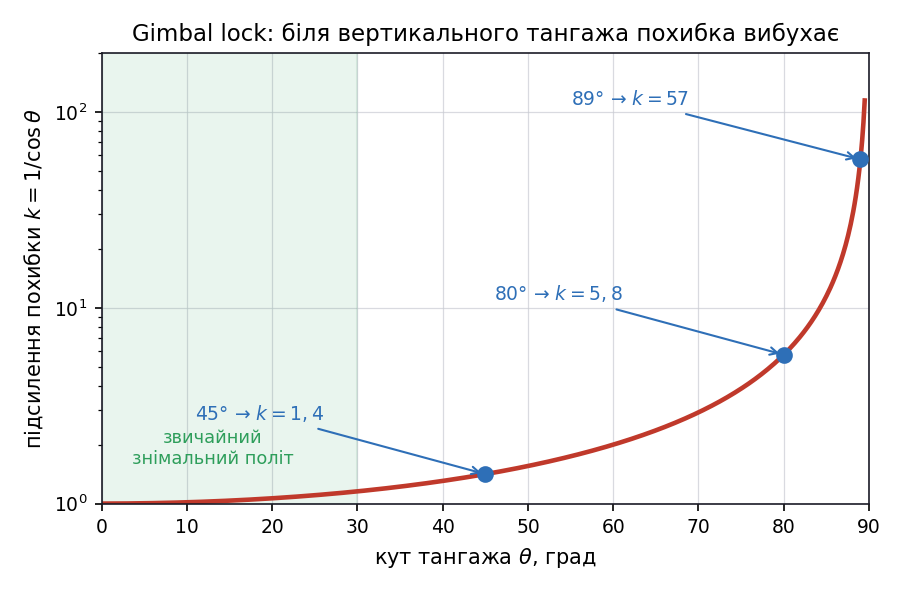
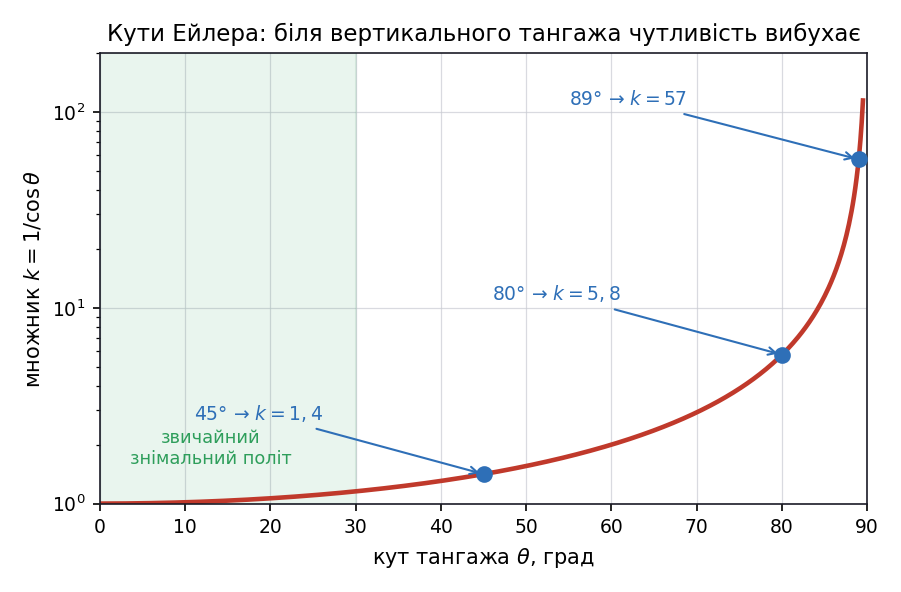
Модуль 02: частоти каскаду перенесено в частину 2, рисунок gimbal lock, правки аудиту
Claude-Session: https://claude.ai/code/session_01YKiEQ7DEaMDvjfRaea471B

diff --git a/lectures/02.md b/lectures/02.md
@@ -21,7 +21,7 @@ outline: [2, 3]
 | **Частина** | **Про що** | **Питання, на яке відповідає** |
 |---|---|---|
 | 1. Апарат у просторі | системи координат, розклад тяги, три представлення орієнтації | як задати положення корпусу і чим апарат керує |
-| 2. Керування й оцінювання | рівновага, ПІД по складових, числення шляху, фільтр Калмана | звідки взяти стан і як утримати апарат у рівновазі |
+| 2. Керування й оцінювання | рівновага, ПІД по складових, частоти контурів каскаду, числення шляху, фільтр Калмана | звідки взяти стан і як утримати апарат у рівновазі |
 | 3. Граф рою | матриці $A$ і $D$, лапласіан, $\lambda_2$, консенсус | як описати не апарати, а зв'язки між ними |
 
 Перші дві частини стосуються одного апарата, третя — уже рою. Модуль 03 застосує цю базу до законів керування групою.
@@ -34,11 +34,11 @@ outline: [2, 3]
 - назвати три представлення орієнтації та сказати, яке з них використовують у автопілоті й чому;
 - пояснити, що робить кожен доданок ПІД-регулятора, звідки береться стала похибка й чим вона лікується;
 - зняти з графіка три показники якості регулятора й перевести задану тягу в оберти гвинтів;
+- пояснити, навіщо контури керування працюють на різних частотах;
 - пояснити, навіщо потрібне числення шляху і чому його похибка зростає;
 - пояснити, як фільтр Калмана поєднує прогноз і вимірювання і що означає його підсилення;
 - побудувати матриці $A$, $D$ і лапласіан невеликого графа та обчислити рядок добутку $Lx$;
-- пояснити правило протоколу консенсусу й сказати, як топологія впливає на час узгодження;
-- пояснити, навіщо контури керування працюють на різних частотах.
+- пояснити правило протоколу консенсусу й сказати, як топологія впливає на час узгодження.
 
 ## Частина 1 · Апарат у просторі
 
@@ -178,13 +178,23 @@ Quaternion example for yaw rotations of a quadrotor
 
 У самому цьому положенні розклад **перестає бути однозначним** — тих самих трьох чисел можна дібрати нескінченно багато, — а поблизу нього він стає дедалі чутливішим: крихітна похибка гіроскопа дає стрибок кута на десятки градусів. Для знімального польоту це не проблема — там тангаж рідко виходить за 30°. Для акробатики чи різкого маневру — проблема щоразу.
 
+
+<Figure src="/figs/own/m02-gimbal-lock.png" alt="Підсилення похибки поблизу карданного замка">
+
+Підсилення похибки поблизу карданного замка
+
+</Figure>
+
+
+Множник $1/\cos\theta$ входить у перерахунок кутових швидкостей корпусу у швидкості зміни кутів Ейлера — і показує, як росте чутливість поблизу особливого положення: при тангажі 45° він дорівнює 1,4, при 80° — 5,8, при 89° — 57.
+
 Тому в автопілоті працює розподіл ролей: **рахують кватерніоном, перетворюють матрицею, показують оператору кути.**
 
 **Це знадобиться в Модулі 06:** у вектор спостереження навченої політики подають матрицю повороту, а не кути. Причина інша, ніж *gimbal lock*: кут стрибає з $+180°$ на $-180°$ при плавному повороті, і мережі важко вчитися на вході з таким розривом.
 
 ## Частина 2 · Керування й оцінювання стану
 
-Від опису апарата переходимо до двох питань практики: що втримує його в повітрі і звідки береться стан, яким керують.
+Від опису апарата переходимо до двох питань практики: що втримує його в повітрі і звідки береться стан, яким керують. Дорогою з'ясується, що регулятор насправді не один.
 
 
 <Figure src="/figs/own/m02-stability.png" alt="Стійка і нестійка рівновага на прикладі кульки">
@@ -308,6 +318,54 @@ $$T = 4\,k_F\,n^2 \quad\Longrightarrow\quad n = \sqrt{\frac{T}{4k_F}}, \qquad u 
 Crazyflie 2.1 із лабораторних: у висінні мотори видають близько 44 % максимуму, тобто повна тяга більша за вагу у 2,25 раза. Решта — це все, що є на розгін, набір висоти й боротьбу з вітром одночасно.
 
 Що з цього випливає: запас витрачається не лише на маневр. Частина його потрібна, щоб апарат лишався керованим після відмови гвинта, — і там уже важить не сама тяга, а те, як гвинти розставлені. Числа за геометріями й розбір відмов — у Модулі 11.
+
+### Чому контури працюють на різних частотах
+
+Досі ми говорили про регулятор так, ніби він один. Насправді їх кілька, і саме звідси беруться 50 Гц у лабораторній.
+
+Керування мультикоптером — це не одна програма, а **каскад** вкладених контурів, і кожен крутиться зі своєю частотою. Ось що відбувається, поки політика видає **одну** дію:
+
+
+<Figure src="/figs/own/m02-cascade-rates.png" alt="Cascade control rates over one policy step">
+
+Cascade control rates over one policy step
+
+</Figure>
+
+
+За ті 20 мілісекунд, що минають між двома рішеннями політики, внутрішній контур встигає відпрацювати **десять** тактів, а симулятор — прорахувати **двадцять** кроків фізики. (20 мс — це період видачі дій, а не час обчислення: сама мережа рахується значно швидше.)
+
+**Три контури керування**, від зовнішнього до внутрішнього:
+
+| **Контур** | **Частота в цьому прикладі** | **Що він видає** |
+|---|---|---|
+| Зовнішній: позиція та швидкість (тут — політика) | 50 Гц | завдання для контуру кутів |
+| Середній: кути крену й тангажа | 250 Гц | потрібну швидкість обертання |
+| Внутрішній: кутові швидкості | 500 Гц | команди на мотори через розподіл керування |
+
+Окремо від них стоїть **крок симулятора, 1000 Гц** — це не контур керування, а чисельне інтегрування рівнянь руху.
+
+**Правило, яке пов'язує сусідні контури:** внутрішній має бути помітно швидшим за зовнішній — на практиці в кілька разів, часто беруть орієнтир близько п'яти. Сенс не в самому числі, а у вимозі: нижній контур мусить встигнути відпрацювати завдання, перш ніж верхній видасть наступне. **Якщо правило порушити**, верхній контур бачить невиконане завдання, просить сильніше, нижній не встигає — і замість керування виходить розгойдування. Саме тому в ряду 50 → 250 → 500 Гц відношення й не однакові: важить не коефіцієнт, а запас за швидкодією.
+
+**Який саме інтерфейс у політики — залежить від задачі.** У ЛР 2 вона видає одне число, нормовану тягу, а кути тримає бортовий регулятор. У Модулі 06 інтерфейс ширший — тяга й кутові швидкості. Показані тут 50/250/500 Гц — це числа конкретного прикладу, а не стандарт: у різних автопілотах вони різні.
+
+### Частоти: три приклади
+
+**Приклад 1: рідкісні вимірювання й частий прогноз.** GPS оновлює позицію десять разів на секунду, а керувати треба частіше. Виходу два, і працюють вони разом: між вимірюваннями оцінювач **прогнозує** позицію за показами IMU (це рівно той фільтр, яким займемося за кілька карток), а рідкісні вимірювання GPS цей прогноз **коригують**. Тому позиційний контур може працювати швидше за GPS — але свіжої зовнішньої інформації в нього все одно стільки, скільки дає GPS.
+
+**Приклад 2: що саме ламається при порушенні правила.** Політика попросила «нахилися на 12°». Нижній контур, припустімо, устигає дійти лише до 6° — і тут приходить наступне рішення. Політика бачить, що завдання не виконане, і просить нахил іще більший; нижній знову не встигає. Обидва контури починають змагатися, і замість плавного виходу на 12° апарат розгойдується. Те саме явище, але для зв'язку **між апаратами**, розбиратимемо в Модулі 03 — там його спричиняє затримка в радіоканалі.
+
+**Приклад 3: із чого починати, коли апарат погано летить.** Частота коливання звужує коло підозрюваних, хоч і не називає винного одразу:
+
+| **Що бачите** | **Частота** | **Що перевірити першим** |
+|---|---|---|
+| Дрібне тремтіння, «дзижчить» | десятки герц | шум гіроскопа, завеликий $k_d$, фільтр у внутрішньому контурі |
+| Плавне гойдання, період близько секунди | одиниці герц | коефіцієнти зовнішнього контуру, затримка в каналі |
+| Повільне «плавання» навколо точки | частки герца | інтегральна складова, якість оцінювача позиції |
+
+Одну й ту саму частоту можуть давати різні причини — регулятор, затримка, фільтр, механіка, насичення тяги. Таблиця каже, **де шукати**, а не хто винен.
+
+**Про крок симуляції.** 1000 Гц у симуляторі — це не рівень каскаду, а чисельне інтегрування рівнянь руху. Крок обирають за динамікою задачі й перевіряють просто: зменшують удвічі й дивляться, чи змінився результат. Якщо змінився — крок був завеликий.
 
 ### Числення шляху: навігація без жодного орієнтира
 
@@ -615,54 +673,6 @@ for name, E in topo.items():
 
 <ConsensusLab />
 
-### Додаткова тема: чому контури працюють на різних частотах
-
-Тема не обов'язкова для заліку, але без неї важко читати будь-який автопілот — і важко зрозуміти, звідки в лабораторних узялися саме 50 Гц.
-
-Керування мультикоптером — це не одна програма, а **каскад** вкладених контурів, і кожен крутиться зі своєю частотою. Ось що відбувається, поки політика видає **одну** дію:
-
-
-<Figure src="/figs/own/m02-cascade-rates.png" alt="Cascade control rates over one policy step">
-
-Cascade control rates over one policy step
-
-</Figure>
-
-
-За ті 20 мілісекунд, що минають між двома рішеннями політики, внутрішній контур встигає відпрацювати **десять** тактів, а симулятор — прорахувати **двадцять** кроків фізики. (20 мс — це період видачі дій, а не час обчислення: сама мережа рахується значно швидше.)
-
-**Три контури керування**, від зовнішнього до внутрішнього:
-
-| **Контур** | **Частота в цьому прикладі** | **Що він видає** |
-|---|---|---|
-| Зовнішній: позиція та швидкість (тут — політика) | 50 Гц | завдання для контуру кутів |
-| Середній: кути крену й тангажа | 250 Гц | потрібну швидкість обертання |
-| Внутрішній: кутові швидкості | 500 Гц | команди на мотори через розподіл керування |
-
-Окремо від них стоїть **крок симулятора, 1000 Гц** — це не контур керування, а чисельне інтегрування рівнянь руху.
-
-**Правило, яке пов'язує сусідні контури:** внутрішній має бути помітно швидшим за зовнішній — на практиці в кілька разів, часто беруть орієнтир близько п'яти. Сенс не в самому числі, а у вимозі: нижній контур мусить встигнути відпрацювати завдання, перш ніж верхній видасть наступне. **Якщо правило порушити**, верхній контур бачить невиконане завдання, просить сильніше, нижній не встигає — і замість керування виходить розгойдування. Саме тому в ряду 50 → 250 → 500 Гц відношення й не однакові: важить не коефіцієнт, а запас за швидкодією.
-
-**Який саме інтерфейс у політики — залежить від задачі.** У ЛР 2 вона видає одне число, нормовану тягу, а кути тримає бортовий регулятор. У Модулі 06 інтерфейс ширший — тяга й кутові швидкості. Показані тут 50/250/500 Гц — це числа конкретного прикладу, а не стандарт: у різних автопілотах вони різні.
-
-### Частоти: три приклади
-
-**Приклад 1: рідкісні вимірювання й частий прогноз.** GPS оновлює позицію десять разів на секунду, а керувати треба частіше. Виходу два, і працюють вони разом: між вимірюваннями оцінювач **прогнозує** позицію за показами IMU (це рівно той фільтр із частини 2), а рідкісні вимірювання GPS цей прогноз **коригують**. Тому позиційний контур може працювати швидше за GPS — але свіжої зовнішньої інформації в нього все одно стільки, скільки дає GPS.
-
-**Приклад 2: що саме ламається при порушенні правила.** Політика попросила «нахилися на 12°». Нижній контур устигає дійти лише до 6° — і тут приходить наступне рішення. Політика бачить, що завдання не виконане, і просить нахил іще більший; нижній знову не встигає. Обидва контури починають змагатися, і замість плавного виходу на 12° апарат розгойдується. Те саме явище, але для зв'язку **між апаратами**, розбиратимемо в Модулі 03 — там його спричиняє затримка в радіоканалі.
-
-**Приклад 3: із чого починати, коли апарат погано летить.** Частота коливання звужує коло підозрюваних, хоч і не називає винного одразу:
-
-| **Що бачите** | **Частота** | **Що перевірити першим** |
-|---|---|---|
-| Дрібне тремтіння, «дзижчить» | десятки герц | шум гіроскопа, завеликий $k_d$, фільтр у внутрішньому контурі |
-| Плавне гойдання, період близько секунди | одиниці герц | коефіцієнти зовнішнього контуру, затримка в каналі |
-| Повільне «плавання» навколо точки | частки герца | інтегральна складова, якість оцінювача позиції |
-
-Одну й ту саму частоту можуть давати різні причини — регулятор, затримка, фільтр, механіка, насичення тяги. Таблиця каже, **де шукати**, а не хто винен.
-
-**Про крок симуляції.** 1000 Гц у симуляторі — це не рівень каскаду, а чисельне інтегрування рівнянь руху. Крок обирають за динамікою задачі й перевіряють просто: зменшують удвічі й дивляться, чи змінився результат. Якщо змінився — крок був завеликий.
-
 ### Типові непорозуміння
 
 П'ять тверджень, які звучать переконливо й усі хибні. Якщо ви ловите себе на будь-якому з них — поверніться до відповідної картки.
@@ -679,7 +689,7 @@ Cascade control rates over one policy step
 
 | **Тема лекції** | **Де знадобиться** |
 |---|---|
-| ПІД, три показники якості, тяга ↔ оберти, компенсація ваги | **лабораторна 1**: висіння й налаштування регулятора |
+| ПІД, три показники якості, тяга ↔ оберти, компенсація ваги, три контури каскаду та їхні частоти | **лабораторна 1**: висіння й налаштування регулятора |
 | Під політикою лишається контур стабілізації; вона задає завдання, а не сигнали моторів | Модуль 06 (тяга й кутові швидкості), ЛР 2 (одна нормована тяга) |
 | Матриця повороту замість кутів Ейлера | Модуль 06: вектор спостереження політики |
 | Дрейф датчиків, фільтр Калмана | Модуль 04: чому спостереження не дорівнює станові |
